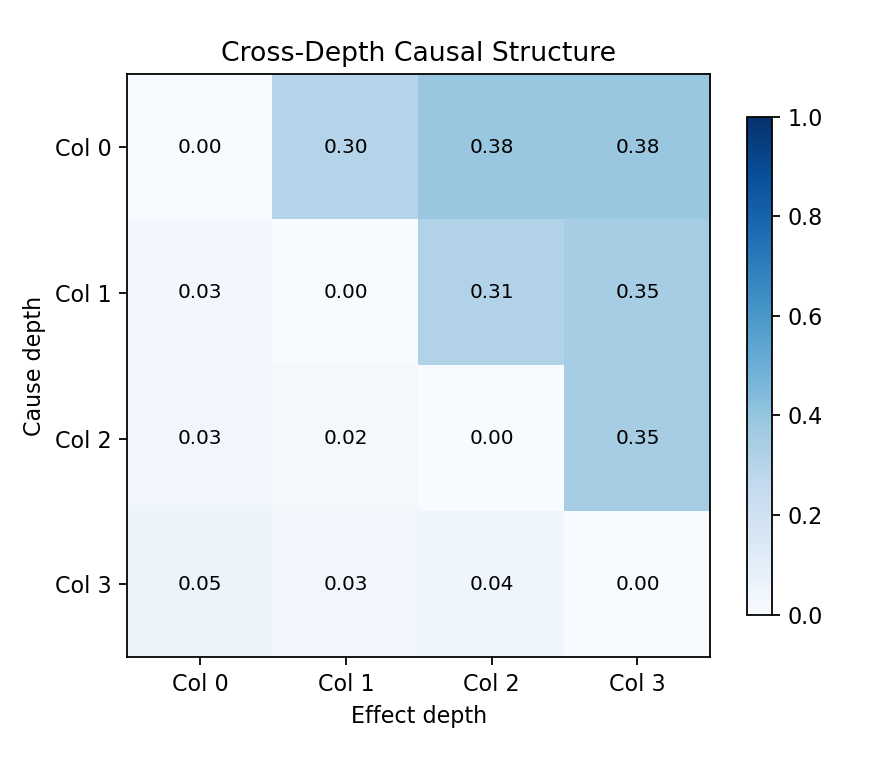
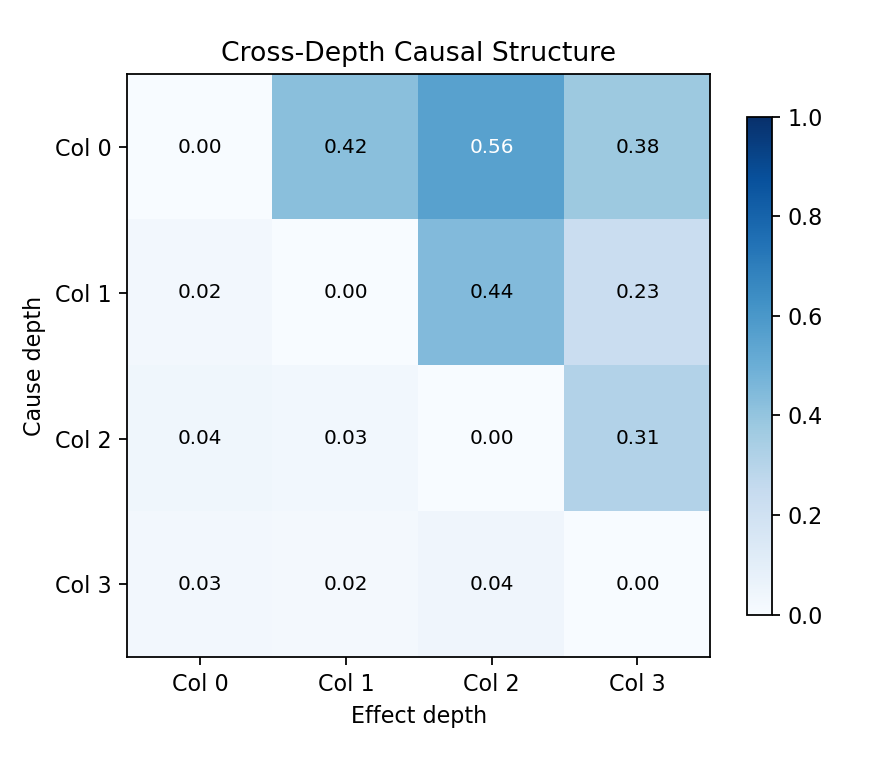
modified:   nn.py 	modified:   visualizations/causal_bdi_adjacency.png 	modified:   visualizations/causal_cross_depth.png 	modified:   visualizations/causal_pearl_hierarchy.png 	modified:   visualizations/tom_depth_weights.png 	modified:   visualizations/tom_uncertainty.png

Changed region(s): [[0.3068, 0.0938, 0.8284, 0.5], [0.7364, 0.5625, 0.767, 0.5938], [0.3989, 0.75, 0.4295, 0.7812]]

diff --git a/nn.py b/nn.py
@@ -2013,6 +2013,28 @@ class FracToMNet(nn.Module):
                 "counterfactual_distances": cf_distances,
             }
 
+        # 2.6) Cross-depth causal gating — use discovered adjacency to
+        # modulate column outputs so that the task loss backpropagates
+        # a gradient signal through the causal discovery module.
+        # Without this, sparsity loss drives cross_adj to zero because
+        # there is no positive gradient to keep edges alive.
+        if self.use_causal and causal_info.get("cross_depth_adjacency") is not None:
+            cross_adj = causal_info["cross_depth_adjacency"]  # (K+1, K+1)
+            K = len(column_outputs)
+            cols_stacked = torch.stack(column_outputs, dim=0)  # (K+1, B, D)
+            for k in range(K):
+                # Weighted sum of other columns' outputs, gated by
+                # discovered causal edges:  Σ_{j≠k} A[j,k] · h_j
+                weights = cross_adj[:, k]           # (K+1,) — inbound edges
+                weights = weights.clone()
+                weights[k] = 0.0                    # no self-loop
+                if weights.sum() > 1e-8:
+                    causal_contrib = (
+                        weights.unsqueeze(-1).unsqueeze(-1)  # (K+1, 1, 1)
+                        * cols_stacked                        # (K+1, B, D)
+                    ).sum(0)                                  # (B, D)
+                    column_outputs[k] = column_outputs[k] + causal_contrib
+
         # 3) Attention-weighted join across columns
         joined, alpha = self.join(column_outputs, h_input)
 
@@ -2178,7 +2200,10 @@ class FracToMLoss(nn.Module):
         if report.causal_adjacency is not None:
             causal_sparse = report.causal_adjacency.sum()
         if report.cross_depth_adjacency is not None:
-            causal_sparse = causal_sparse + report.cross_depth_adjacency.sum()
+            # Cross-depth adjacency receives weaker task gradients than
+            # BDI adjacency (additive gating vs. structural equations),
+            # so apply a reduced sparsity penalty to prevent collapse.
+            causal_sparse = causal_sparse + 0.1 * report.cross_depth_adjacency.sum()
         loss = loss + self.lambda_causal_sparsity * causal_sparse
 
         # 7) Counterfactual ordering — deeper columns should have larger
@@ -2307,12 +2332,24 @@ def analyse_mentalizing_depth(
         lines.append("Cross-Depth Causal Structure:")
         cd = report.cross_depth_adjacency.detach()
         K = cd.shape[0]
+        # Print full adjacency matrix for visibility
+        col_labels = [f"Col {i}" for i in range(K)]
+        header = "          " + "  ".join(f"{c:>7s}" for c in col_labels)
+        lines.append(header)
         for i in range(K):
-            for j in range(K):
-                if cd[i, j] > 0.3:
-                    lines.append(
-                        f"  Column {i} → Column {j}: {cd[i, j]:.3f}"
-                    )
+            row_vals = "  ".join(
+                f"{cd[i, j]:7.3f}" if i != j else "      ·"
+                for j in range(K)
+            )
+            lines.append(f"  Col {i}  {row_vals}")
+        # Highlight strong edges
+        strong = [(i, j, cd[i, j].item())
+                  for i in range(K) for j in range(K)
+                  if i != j and cd[i, j] > 0.3]
+        if strong:
+            lines.append("  Strong edges (> 0.3):")
+            for i, j, w in strong:
+                lines.append(f"    Column {i} → Column {j}: {w:.3f}")
 
     if report.counterfactual_distances:
         lines.append("")
@@ -2380,7 +2417,7 @@ def extract_causal_graph(
         edges = []
         for i in range(cd.shape[0]):
             for j in range(cd.shape[1]):
-                if cd[i, j] > 0.3:
+                if cd[i, j] > 0.15:
                     edges.append((i, j, cd[i, j].item()))
         result["cross_depth_edges"] = edges
     else:
